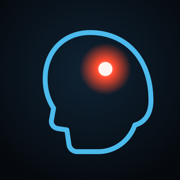
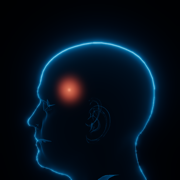
图标换成全息人头侧脸渲染图，太阳穴带痛点光斑
Claude-Session: https://claude.ai/code/session_01AQDmE4HwsVhAypy1ZV9iL6

Changed region(s): [[0.1389, 0.1667, 0.8889, 1.0], [0.5278, 0.9722, 0.6389, 1.0]]

diff --git a/public/sw.js b/public/sw.js
@@ -1,6 +1,6 @@
 // 页面壳：网络优先（总能拿到新版本，断网回退缓存）；带哈希的构建产物和模型：缓存优先；API 不缓存。
-const CACHE = 'headache-v1';
-const SHELL = ['/', '/manifest.webmanifest', '/icon.svg', '/models/head.bin'];
+const CACHE = 'headache-v2';
+const SHELL = ['/', '/manifest.webmanifest', '/icon-192.png', '/models/head.bin'];
 
 self.addEventListener('install', (e) => {
   e.waitUntil(caches.open(CACHE).then((c) => c.addAll(SHELL)).then(() => self.skipWaiting()));

diff --git a/index.html b/index.html
@@ -8,7 +8,7 @@
     <meta name="apple-mobile-web-app-status-bar-style" content="black-translucent" />
     <meta name="apple-mobile-web-app-title" content="头痛日记" />
     <link rel="manifest" href="/manifest.webmanifest" />
-    <link rel="icon" href="/icon.svg" type="image/svg+xml" />
+    <link rel="icon" href="/favicon.png" type="image/png" />
     <link rel="apple-touch-icon" href="/icon-180.png" />
     <title>头痛日记</title>
   </head>
